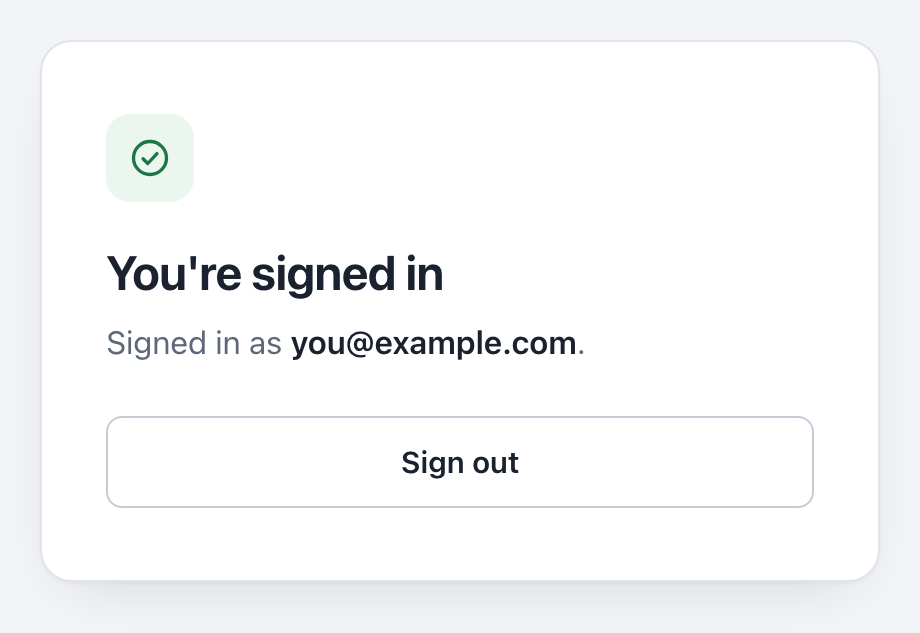
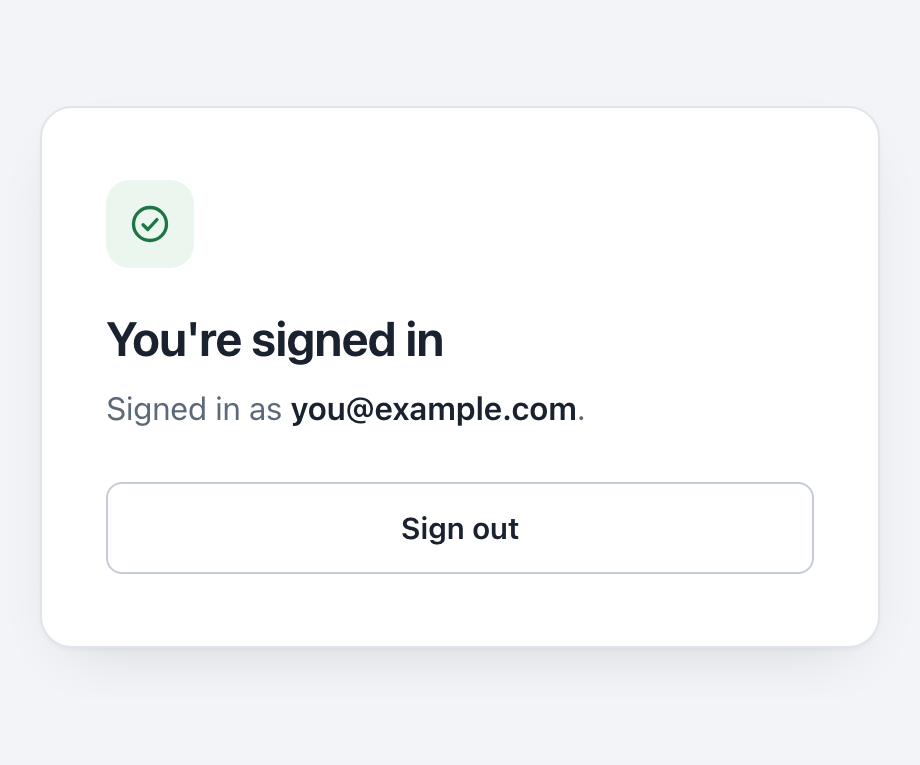
Show four screenshots in a 2x2 layout

diff --git a/README.md b/README.md
@@ -161,43 +161,17 @@ Open http://localhost:3000/login. The database is created at `./data/app.db` on 
 
 ## Screenshots
 
-All screenshots come from a local run with the placeholder address `you@example.com`.
+<p align="center">
+  <img src="docs/demo-login.png" alt="Sign-in page with a choice of 6-digit code or magic link" width="400">
+  <img src="docs/demo-code.png" alt="Check your email page with six code boxes and a resend timer" width="400">
+</p>
+<p align="center">Choose a 6-digit code or a magic link, then type the code from the email.</p>
 
-### Sign in
-
-Enter your email and choose a 6-digit code or a magic link.
-
-<img src="docs/demo-login.png" alt="Sign-in page with a choice of 6-digit code or magic link" width="360">
-
-### Enter the code
-
-Type or paste the code. Resending unlocks when the timer runs out.
-
-<img src="docs/demo-code.png" alt="Check your email page with six code boxes and a resend timer" width="360">
-
-### Login email
-
-The code is in the subject and on the first line, so it shows in notification previews.
-
-<img src="docs/demo-email.png" alt="Login email showing a 6-digit code" width="360">
-
-### Magic link sent
-
-Open the email and click Sign in. You can switch to a code instead.
-
-<img src="docs/demo-link-sent.png" alt="Check your email page after requesting a magic link, with resend timer" width="360">
-
-### Code expired
-
-Expired, reused or locked codes explain what happened and offer a new one.
-
-<img src="docs/demo-expired.png" alt="Code expired page with a Send a new code button" width="360">
-
-### Signed in
-
-The protected page, reachable only with a valid session.
-
-<img src="docs/demo-dashboard.png" alt="Signed-in page showing the user's email and a Sign out button" width="360">
+<p align="center">
+  <img src="docs/demo-expired.png" alt="Code expired page with a Send a new code button" width="400">
+  <img src="docs/demo-dashboard.png" alt="Signed-in page showing the user's email and a Sign out button" width="400">
+</p>
+<p align="center">An expired code offers a new one. A valid code lands on the signed-in page.</p>
 
 ## Key integration points
 
